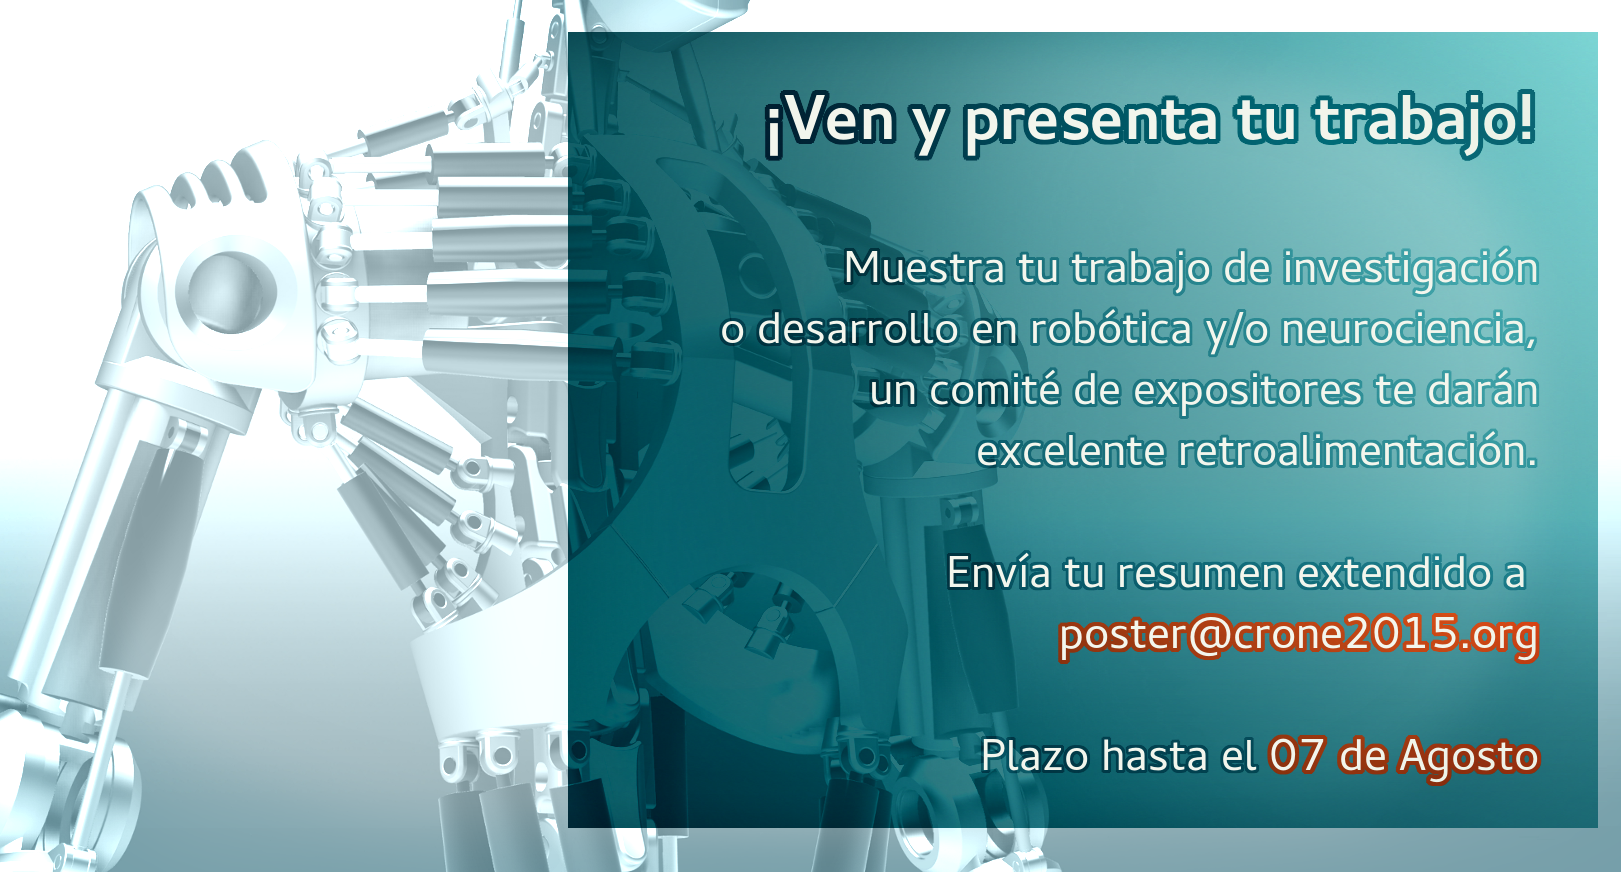
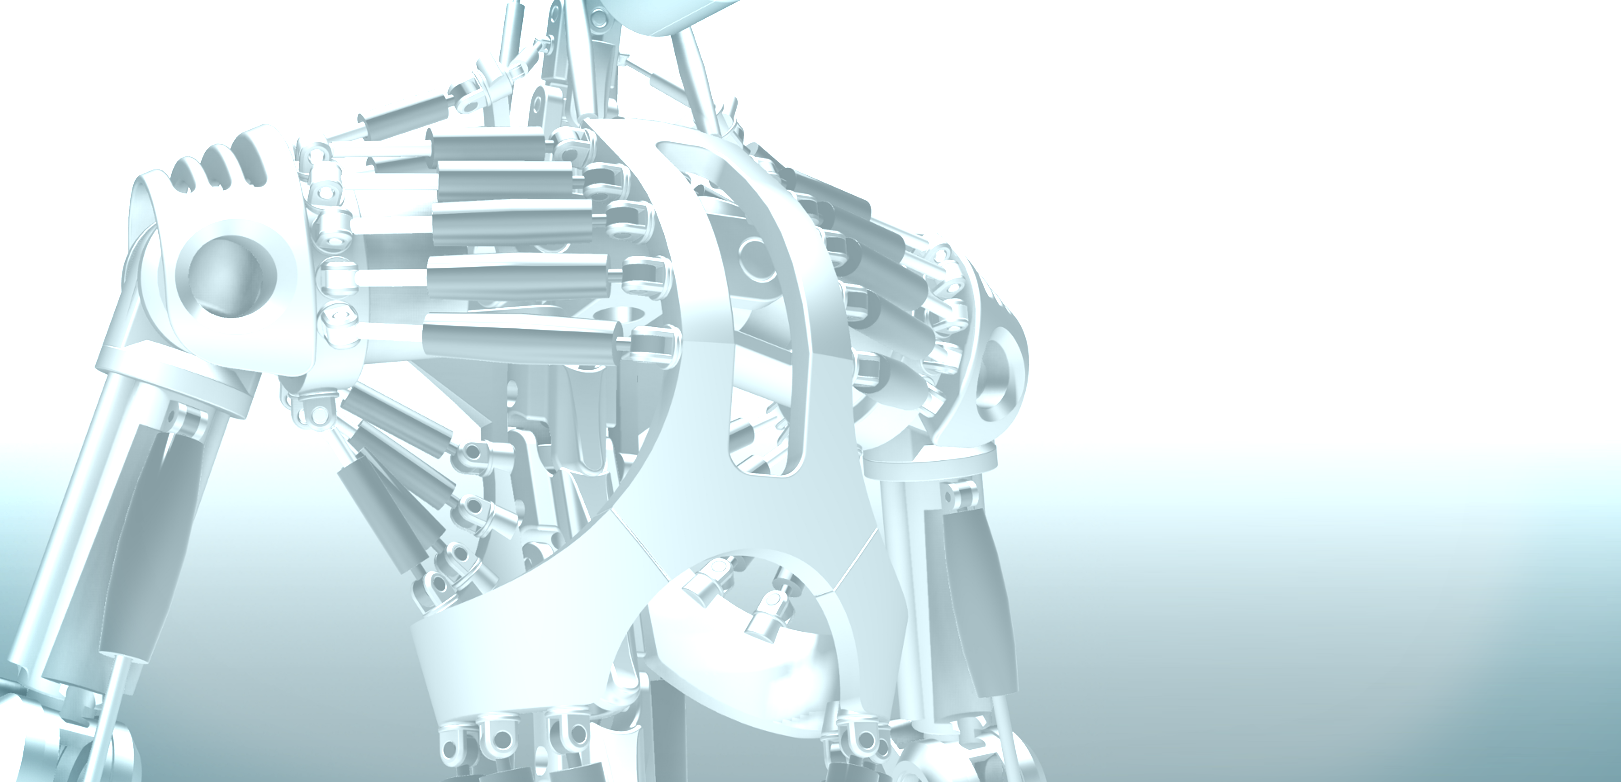
minor fix

diff --git a/web/css/style.css b/web/css/style.css
@@ -234,9 +234,9 @@ span.menu {
 }
 .poster-img {
 	width: 100%;
-	display: block;
+/*	display: block;
     margin-left: auto;
-    margin-right: auto;
+    margin-right: auto;*/
     border-top: 5px solid #e5e5e7;
 }
 /*--activity--*/

diff --git a/web/index.php b/web/index.php
@@ -41,7 +41,13 @@
 		<h3>Llamado a Posters</h3>
 		<div class="poster-grids"></div>
 	</div>
-	<img class="poster-img" src="images/banner-posters-square.png" alt=""/>
+	<div class="poster-img">
+		<img src="images/banner-posters-square.png" alt=""/>
+		<div class="banner-title"> 
+			<h4>¡Ven y presenta tu trabajo!</h4>
+			<p>Muestra tu trabajo de investigación o desarrollo en robótica y/o neurociencia, un comité de expositores te darán excelente retroalimentación. </br></br> Envía tu resumen extendido a <b>poster@crone2015.org</b> </br></br> Plazo hasta el <b>07 de Agosto</b></p>
+		</div>
+	</div>
 </div>
 <!--//posters-->
 <!--activity-->
